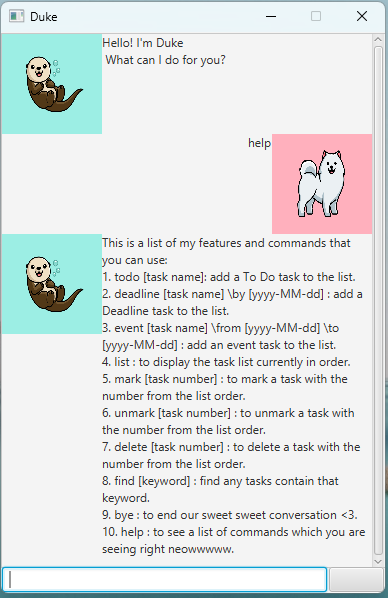
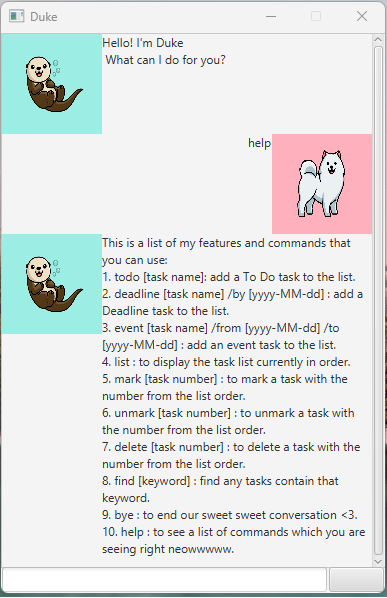
Update Ui.png and cover more exception cases.

diff --git a/src/main/java/duke/parser/Parser.java b/src/main/java/duke/parser/Parser.java
@@ -128,9 +128,17 @@ public class Parser {
             String responseMessage = "The description of a deadline cannot be empty.\n";
             throw new DukeException(responseMessage);
         }
-        LocalDate by = LocalDate.parse(description.substring(description.indexOf(" /by ") + 5),
-                DateTimeFormatter.ofPattern("yyyy-MM-dd"));
-        description = description.substring(9, description.indexOf(" /by "));
+
+        LocalDate by;
+        try {
+             by = LocalDate.parse(description.substring(description.indexOf(" /by ") + 5),
+                    DateTimeFormatter.ofPattern("yyyy-MM-dd"));
+            description = description.substring(9, description.indexOf(" /by "));
+        } catch (Exception e) {
+            String responseMessage = "You are adding a Deadline task with wrong format :(. Type \"help\""
+                    + "to see more about my command syntax.";
+            throw new DukeException(responseMessage);
+        }
         return new Deadline(description, by);
     }
 
@@ -139,11 +147,20 @@ public class Parser {
             String responseMessage = "The description of an event cannot be empty:\n";
             throw new DukeException(responseMessage);
         }
-        LocalDate start = LocalDate.parse(description.substring(description.indexOf(" /from ") + 7,
-                description.indexOf(" /to ")), DateTimeFormatter.ofPattern("yyyy-MM-dd"));
-        LocalDate end = LocalDate.parse(description.substring(description.indexOf(" /to ") + 5),
-                DateTimeFormatter.ofPattern("yyyy-MM-dd"));
-        description = description.substring(6, description.indexOf(" /from "));
+
+        LocalDate start;
+        LocalDate end;
+        try {
+            start = LocalDate.parse(description.substring(description.indexOf(" /from ") + 7,
+                    description.indexOf(" /to ")), DateTimeFormatter.ofPattern("yyyy-MM-dd"));
+            end = LocalDate.parse(description.substring(description.indexOf(" /to ") + 5),
+                    DateTimeFormatter.ofPattern("yyyy-MM-dd"));
+            description = description.substring(6, description.indexOf(" /from "));
+        } catch (Exception e) {
+            String responseMessage = "You are adding an event task with wrong format :(. Type \"help\""
+                    + "to see more about my command syntax.";
+            throw new DukeException(responseMessage);
+        }
         return new Event(description, start, end);
     }
 

diff --git a/src/main/java/duke/ui/Ui.java b/src/main/java/duke/ui/Ui.java
@@ -54,8 +54,8 @@ public class Ui {
     public static String getHelpResponse() {
         String helpResponse = "This is a list of my features and commands that you can use:\n"
                 + "1. todo [task name]: add a To Do task to the list.\n"
-                + "2. deadline [task name] \\by [yyyy-MM-dd] : add a Deadline task to the list.\n"
-                + "3. event [task name] \\from [yyyy-MM-dd] \\to [yyyy-MM-dd] : add an event task to the list.\n"
+                + "2. deadline [task name] /by [yyyy-MM-dd] : add a Deadline task to the list.\n"
+                + "3. event [task name] /from [yyyy-MM-dd] /to [yyyy-MM-dd] : add an event task to the list.\n"
                 + "4. list : to display the task list currently in order.\n"
                 + "5. mark [task number] : to mark a task with the number from the list order.\n"
                 + "6. unmark [task number] : to unmark a task with the number from the list order.\n"
